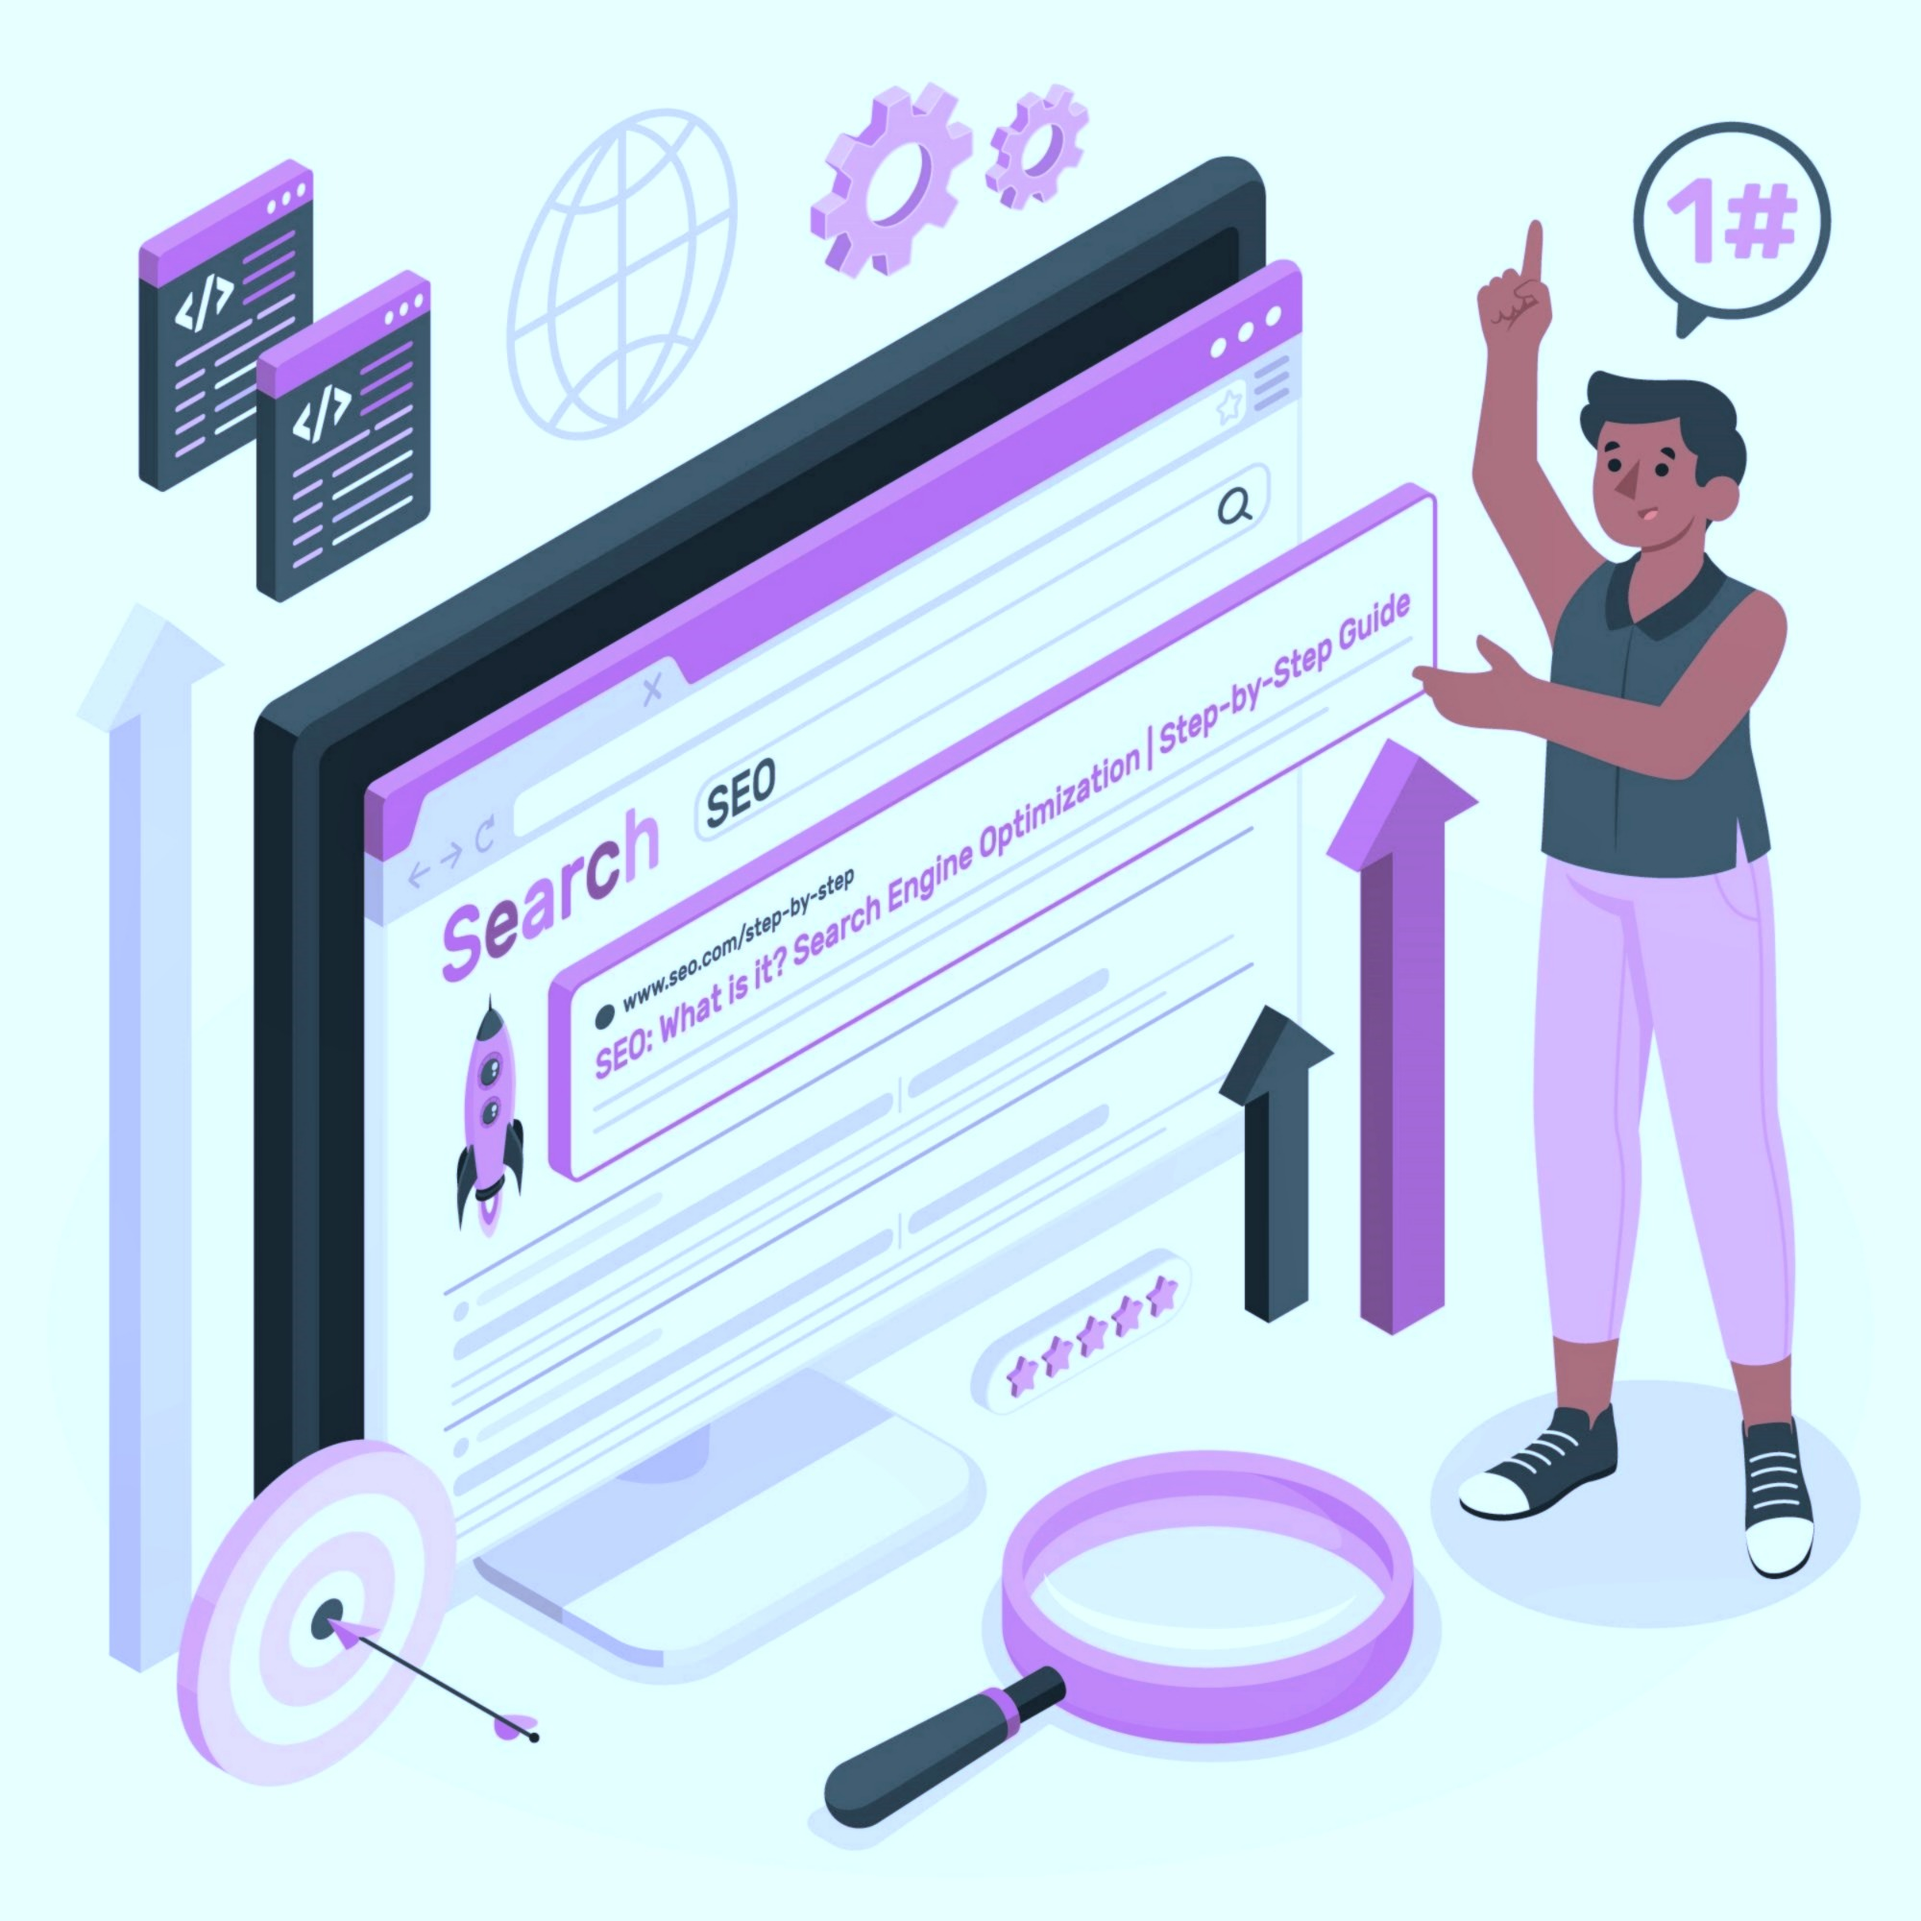
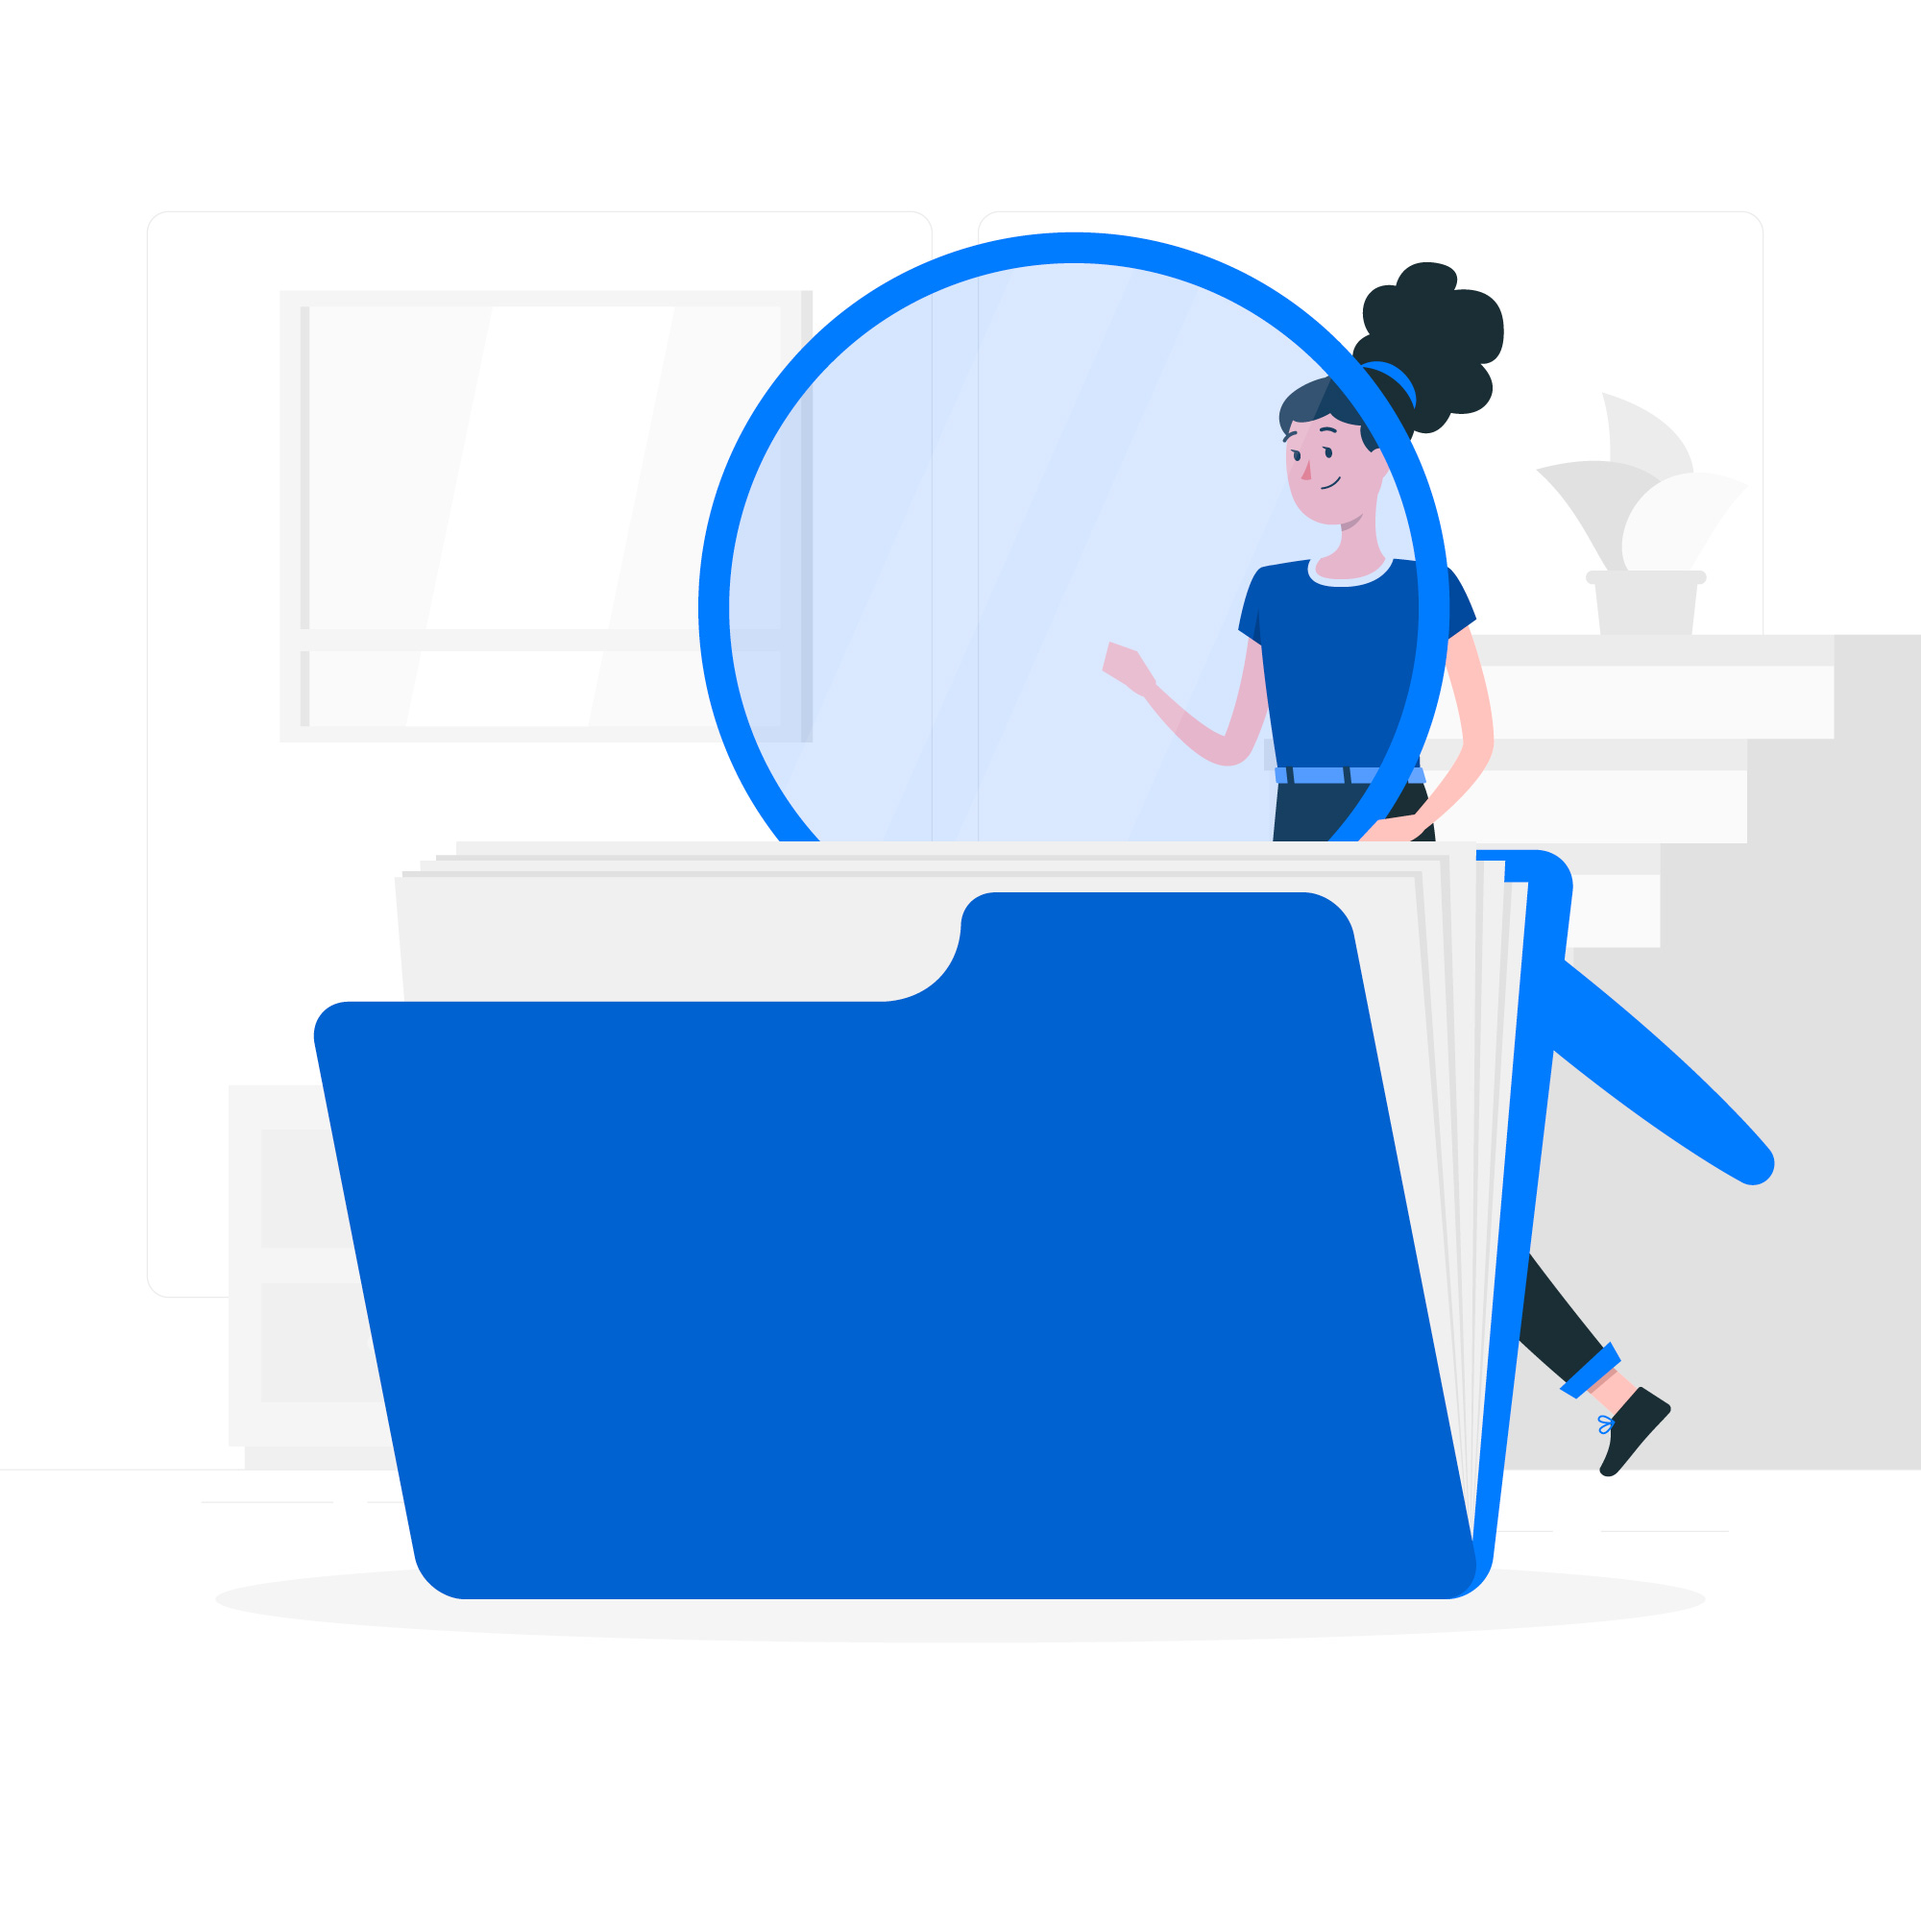
landing page

diff --git a/src/app/page.js b/src/app/page.js
@@ -4,9 +4,10 @@ import Login from "@/components/LoginPage";
 import { SessionProvider } from "next-auth/react";
 import { useState } from "react";
 import { Button } from "@/components/ui/button";
-import { Badge, Cloud } from "lucide-react";
+import { Badge, Cloud, Search } from "lucide-react";
 import Image from "next/image";
 import Link from "next/link";
+import landingImage from "../../public/images/landing.jpg";
 
 const Home = () => {
   const [getStarted, setGetStarted] = useState(false);
@@ -23,6 +24,26 @@ const Home = () => {
                 <Cloud className="h-8 w-8" />
                 NDMS
               </Link>
+              <div className="flex gap-2">
+                <Button
+                  onClick={() => {
+                    setGetStarted(true);
+                  }}
+                  size="lg"
+                  className="text-white bg-vprimary hover:bg-vprimary"
+                >
+                  Get Started
+                </Button>
+                <Button
+                  size="lg"
+                  onClick={() => {
+                    setGetStarted(true);
+                  }}
+                  variant="outline"
+                >
+                  Login
+                </Button>
+              </div>
 
               {/* <div className="hidden md:flex items-center gap-8">
                 <Link href="#" className="text-gray-600 hover:text-gray-900">
@@ -48,8 +69,8 @@ const Home = () => {
             </nav>
           </header>
 
-          <main className="container mx-auto px-4 py-20 h-[70vh] relative">
-            <div className="relative max-w-4xl mx-auto text-center">
+          <main className="container flex w-full  mx-auto px-4 py-20 min-h-[60vh] relative">
+            <div className="relative max-w-4xl  mx-auto text-start">
               {/* Decorative elements */}
               <div className="absolute left-0 top-1/2 w-48 h-px bg-gray-200 -translate-x-full">
                 <div className="absolute -right-1 -top-1 w-2 h-2 rounded-full border border-gray-200" />
@@ -67,8 +88,10 @@ const Home = () => {
                 Introduce Cloud Platforms
               </Badge> */}
 
-              <h1 className="text-5xl md:text-6xl font-bold tracking-tight mb-4">
-                No <span className="text-vprimary">Due </span>
+              <h1 className="text-5xl mt-32 md:text-6xl font-bold tracking-normal mb-4">
+                No
+                {/* No <br /> */}
+                <span className="text-vprimary">Due </span>
                 <br />
                 Management System
               </h1>
@@ -80,7 +103,7 @@ const Home = () => {
                 From anywhere and with any device.
               </p>
 
-              <div className="flex flex-col sm:flex-row gap-4 justify-center relative">
+              <div className="flex flex-col sm:flex-row gap-4  self-start  relative">
                 <Button
                   onClick={() => {
                     setGetStarted(true);
@@ -98,19 +121,30 @@ const Home = () => {
                 <div className="absolute inset-0 translate-y-1/2 rounded-full text-vprimary/30 blur-3xl" />
               </div> */}
             </div>
+            <div>
+              <Image src={landingImage} alt="" width={800} height={900} />
+            </div>
           </main>
           <div className="flex justify-center items-center min-h-[100vh] w-full">
-            <div className="flex flex-col w-1/2">
+            <div className="flex flex-col gap-3 w-1/2">
               <h1 className="text-5xl md:text-6xl font-bold tracking-tight mb-4">
-                🔍 Advanced <span className="text-vprimary">Search</span>{" "}
-                Functionality
+                Easy <br />
+                <span className="text-vprimary">Search</span> Functionality
               </h1>
-              <p className="text-3xl text-gray-500">
+              <p className="text-xl text-gray-500">
                 Find what you need instantly with our powerful search system.
-                <br />✔ Search the data effectively.
-                <br /> ✔ Get the data fastly.
-                <br /> ✔ Implented to easy access.
+                <br />. Search the data effectively.
+                <br /> . Get the data fastly.
+                <br /> . Implented to easy access.
               </p>
+              <div className="flex items-center gap-2 w-[25rem] border-gray-300 border rounded-full p-2">
+                <Search className="text-vprimary" />
+                <input
+                  type="text"
+                  className="rounded-full p-2 search-input w-[25rem] outline-none "
+                  placeholder="Enter details......."
+                />
+              </div>
             </div>
             <div>
               <Image
@@ -122,11 +156,11 @@ const Home = () => {
             </div>
           </div>
           <div className="flex justify-center items-center min-h-[100vh]">
-            <div>Search Content</div>
+            <div>update Content</div>
             <div>Image</div>
           </div>
           <div className="flex justify-center items-center min-h-[100vh]">
-            <div>Automation Content</div>
+            <div>Student Management content</div>
             <div>Image</div>
           </div>
           <footer className="flex justify-center items-center">
